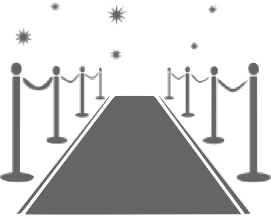
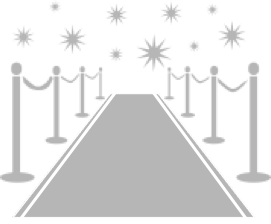
resize art png, reduce opacity art + event pngs

diff --git a/index.css b/index.css
@@ -229,8 +229,11 @@ letter-spacing: 0.1vw;
         font-size: 0.7em;
     }
     
-    #cropAmy, #cropAdrian, #picasso {
+    #cropAmy, #cropAdrian {
         max-width: 11vw;
+    }
+    #picasso {
+        max-width: 10vw;
     }
     #outlineWR {
         width: 20vw;
@@ -305,8 +308,11 @@ letter-spacing: 0.1vw;
         font-size: 0.6em;
     }
 
-    #cropAmy, #cropAdrian, #picasso {
+    #cropAmy, #cropAdrian {
         max-width: 13vw;
+    }
+    #picasso {
+        max-width: 12vw;
     }
     #outlineWR {
         width: 20vw;
@@ -373,8 +379,11 @@ letter-spacing: 0.1vw;
     #train-station {
         font-size: 12px;
     }
-    #cropAmy, #cropAdrian, #picasso {
+    #cropAmy, #cropAdrian {
         max-width: 13vw;
+    }
+    #picasso {
+        max-width: 12vw;
     }
     #outlineWR {
         width: 30vw;
@@ -444,8 +453,11 @@ letter-spacing: 0.1vw;
         padding-top: 1vh;
         padding-left: 7vw;
     }
-    #cropAmy, #cropAdrian, #picasso {
+    #cropAmy, #cropAdrian {
         max-width: 20vw;
+    }
+    #picasso {
+        max-width: 18vw;
     }
     #outlineWR {
         width: 40vw;
@@ -549,8 +561,11 @@ padding-bottom: 4vh;
 
     }
 
-    #cropAmy, #cropAdrian, #takeAway, #outlineWR, #picasso {
+    #cropAmy, #cropAdrian, #takeAway, #outlineWR {
         max-width: 40vw;
+    }
+    #picasso {
+        max-width: 35vw;
     }
 }
 

diff --git a/index.html b/index.html
@@ -226,13 +226,13 @@
             <div class="col-md-10 col-lg-8" id="ethos">
                 <div class="row">
                     <div class="col-sm-3 picasso">
-                        <img id="picasso" src="picasso4.png" alt="picasso">
+                        <img id="picasso" src="picasso80.png" alt="picasso">
                     </div>
                     <div class="col-sm-9 col-md-9 art">
                         <!--<a href="" target="_blank" style="color:black !important;">-->
                         <div id="philosophy">ART</div>
                         <div id="ethosText">
-                            White Rabbit proudly supports local artists by providing them with an affordable,
+                            White Rabbit proudly supports local artists by providing an affordable,
                             high-visibility venue to exhibit their work. Our walls regularly feature rotating solo
                             and
                             group shows of painting, photography, graphic design and other two-dimensional work.
